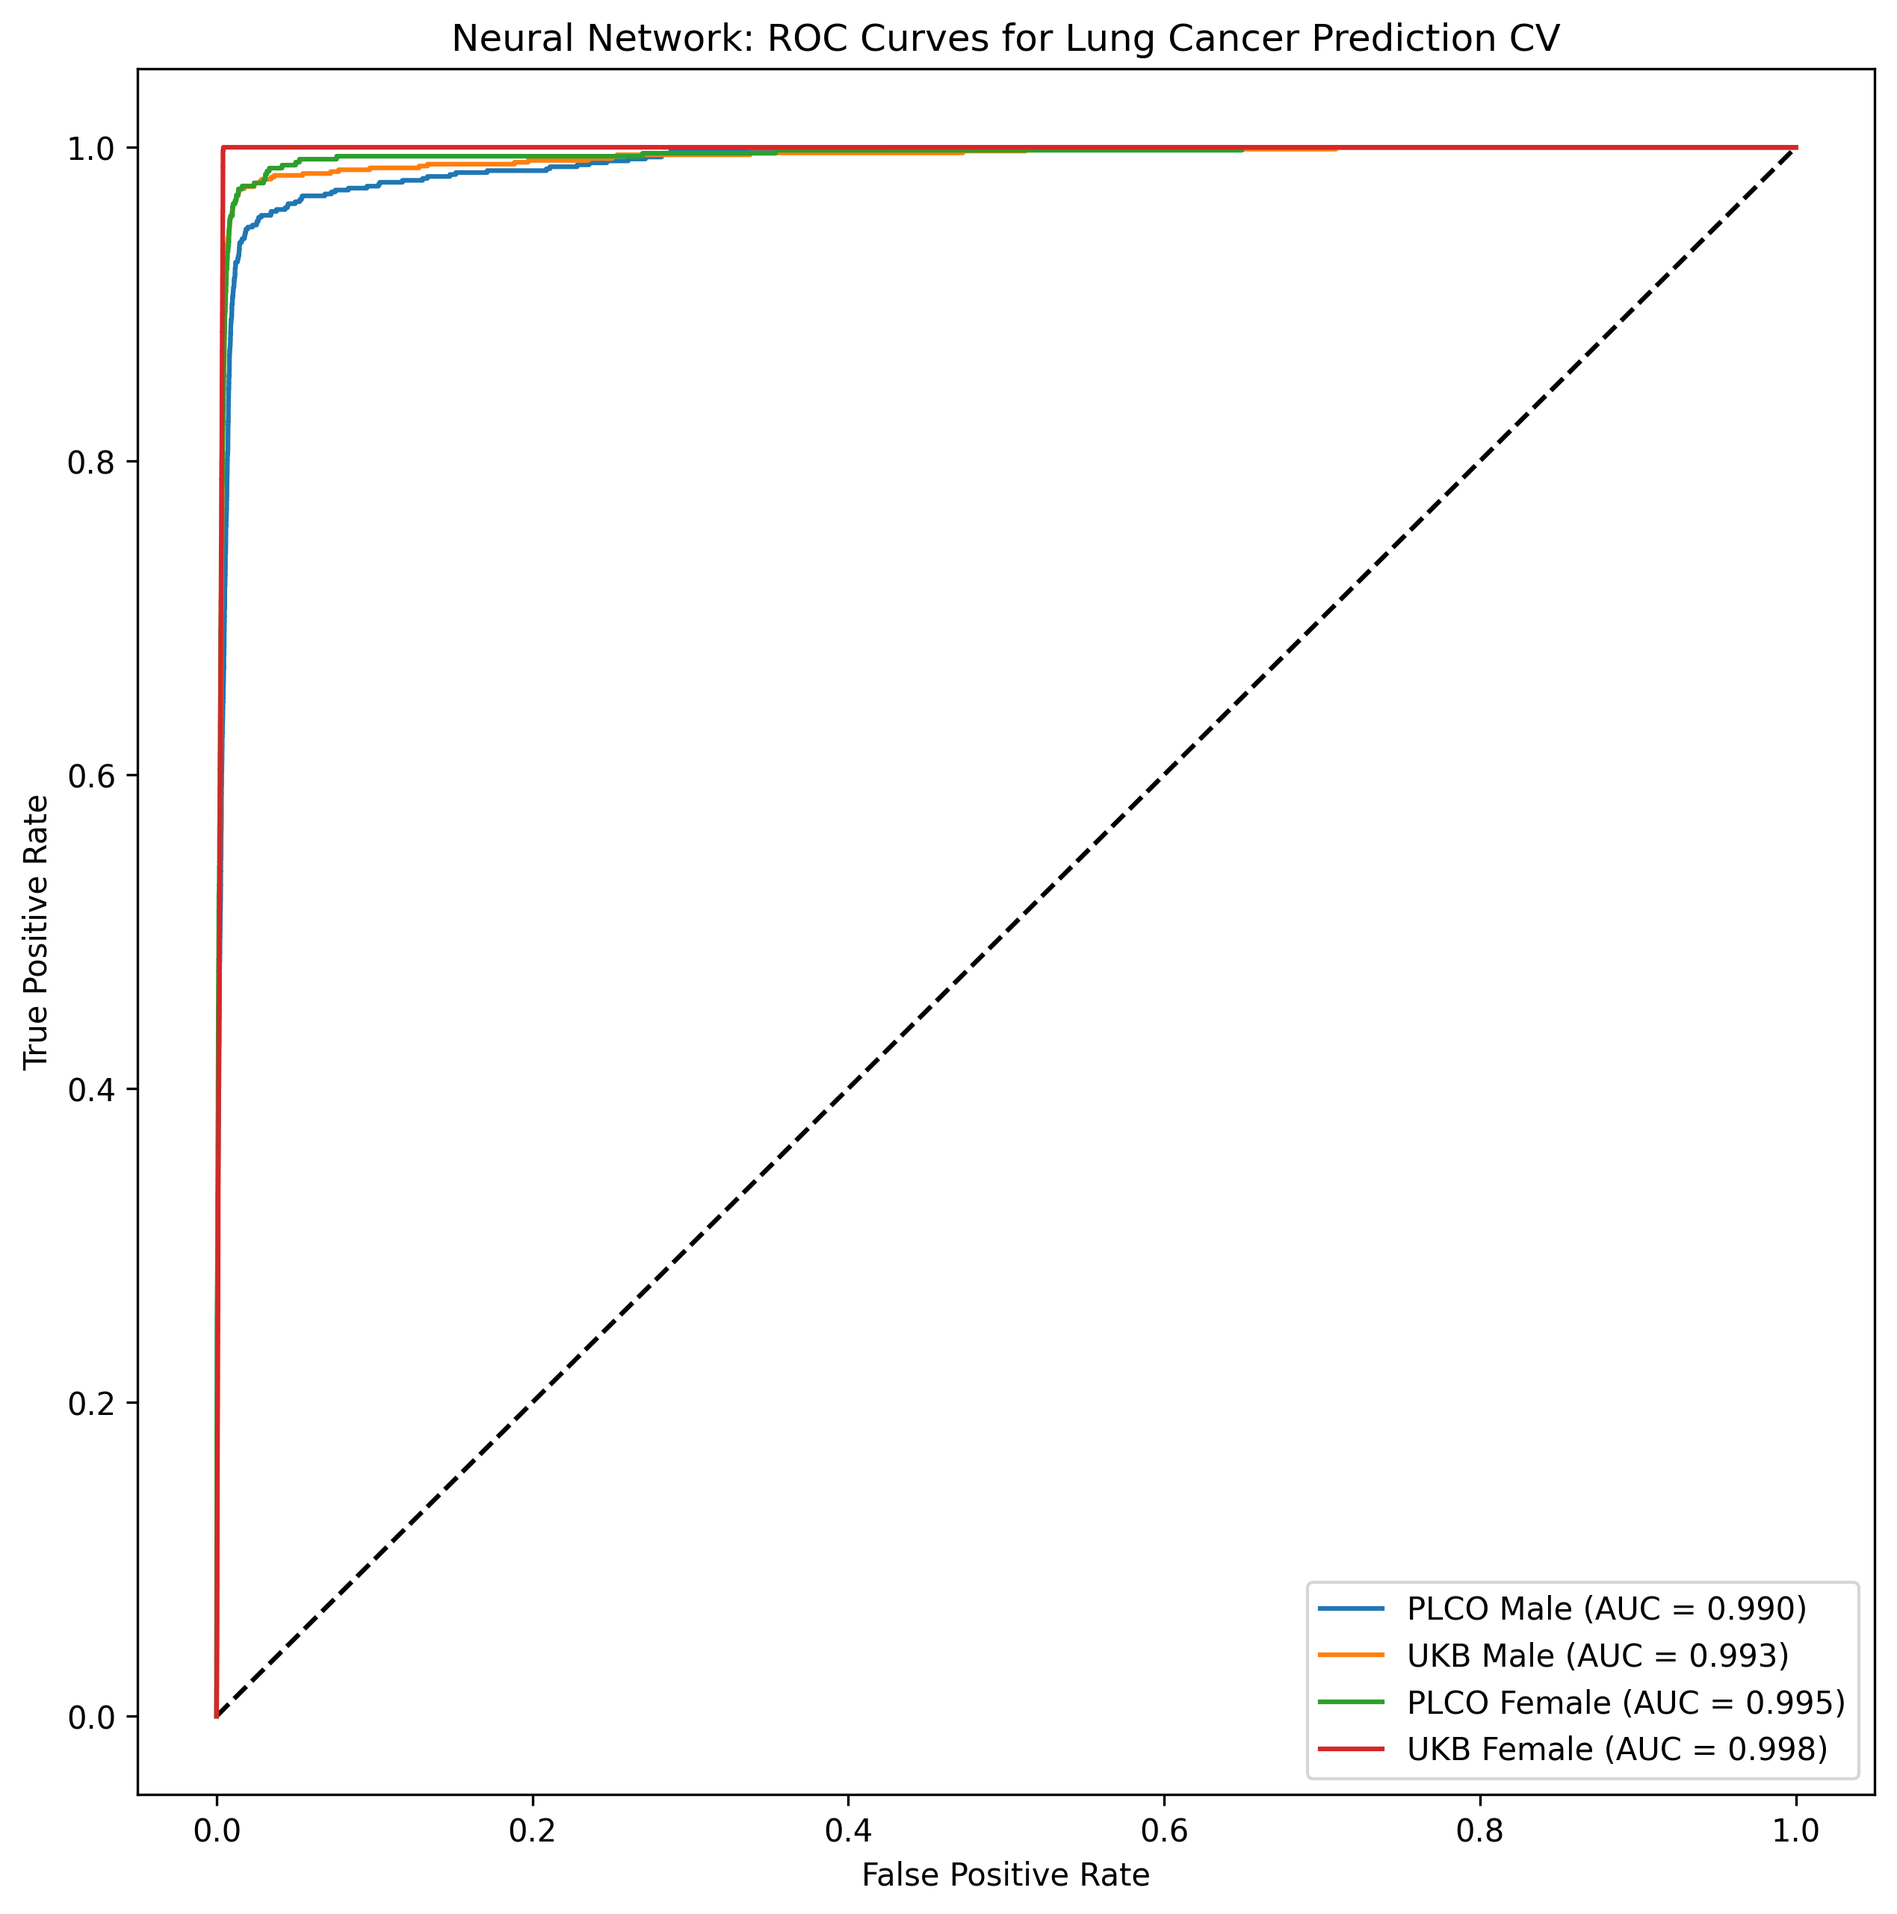
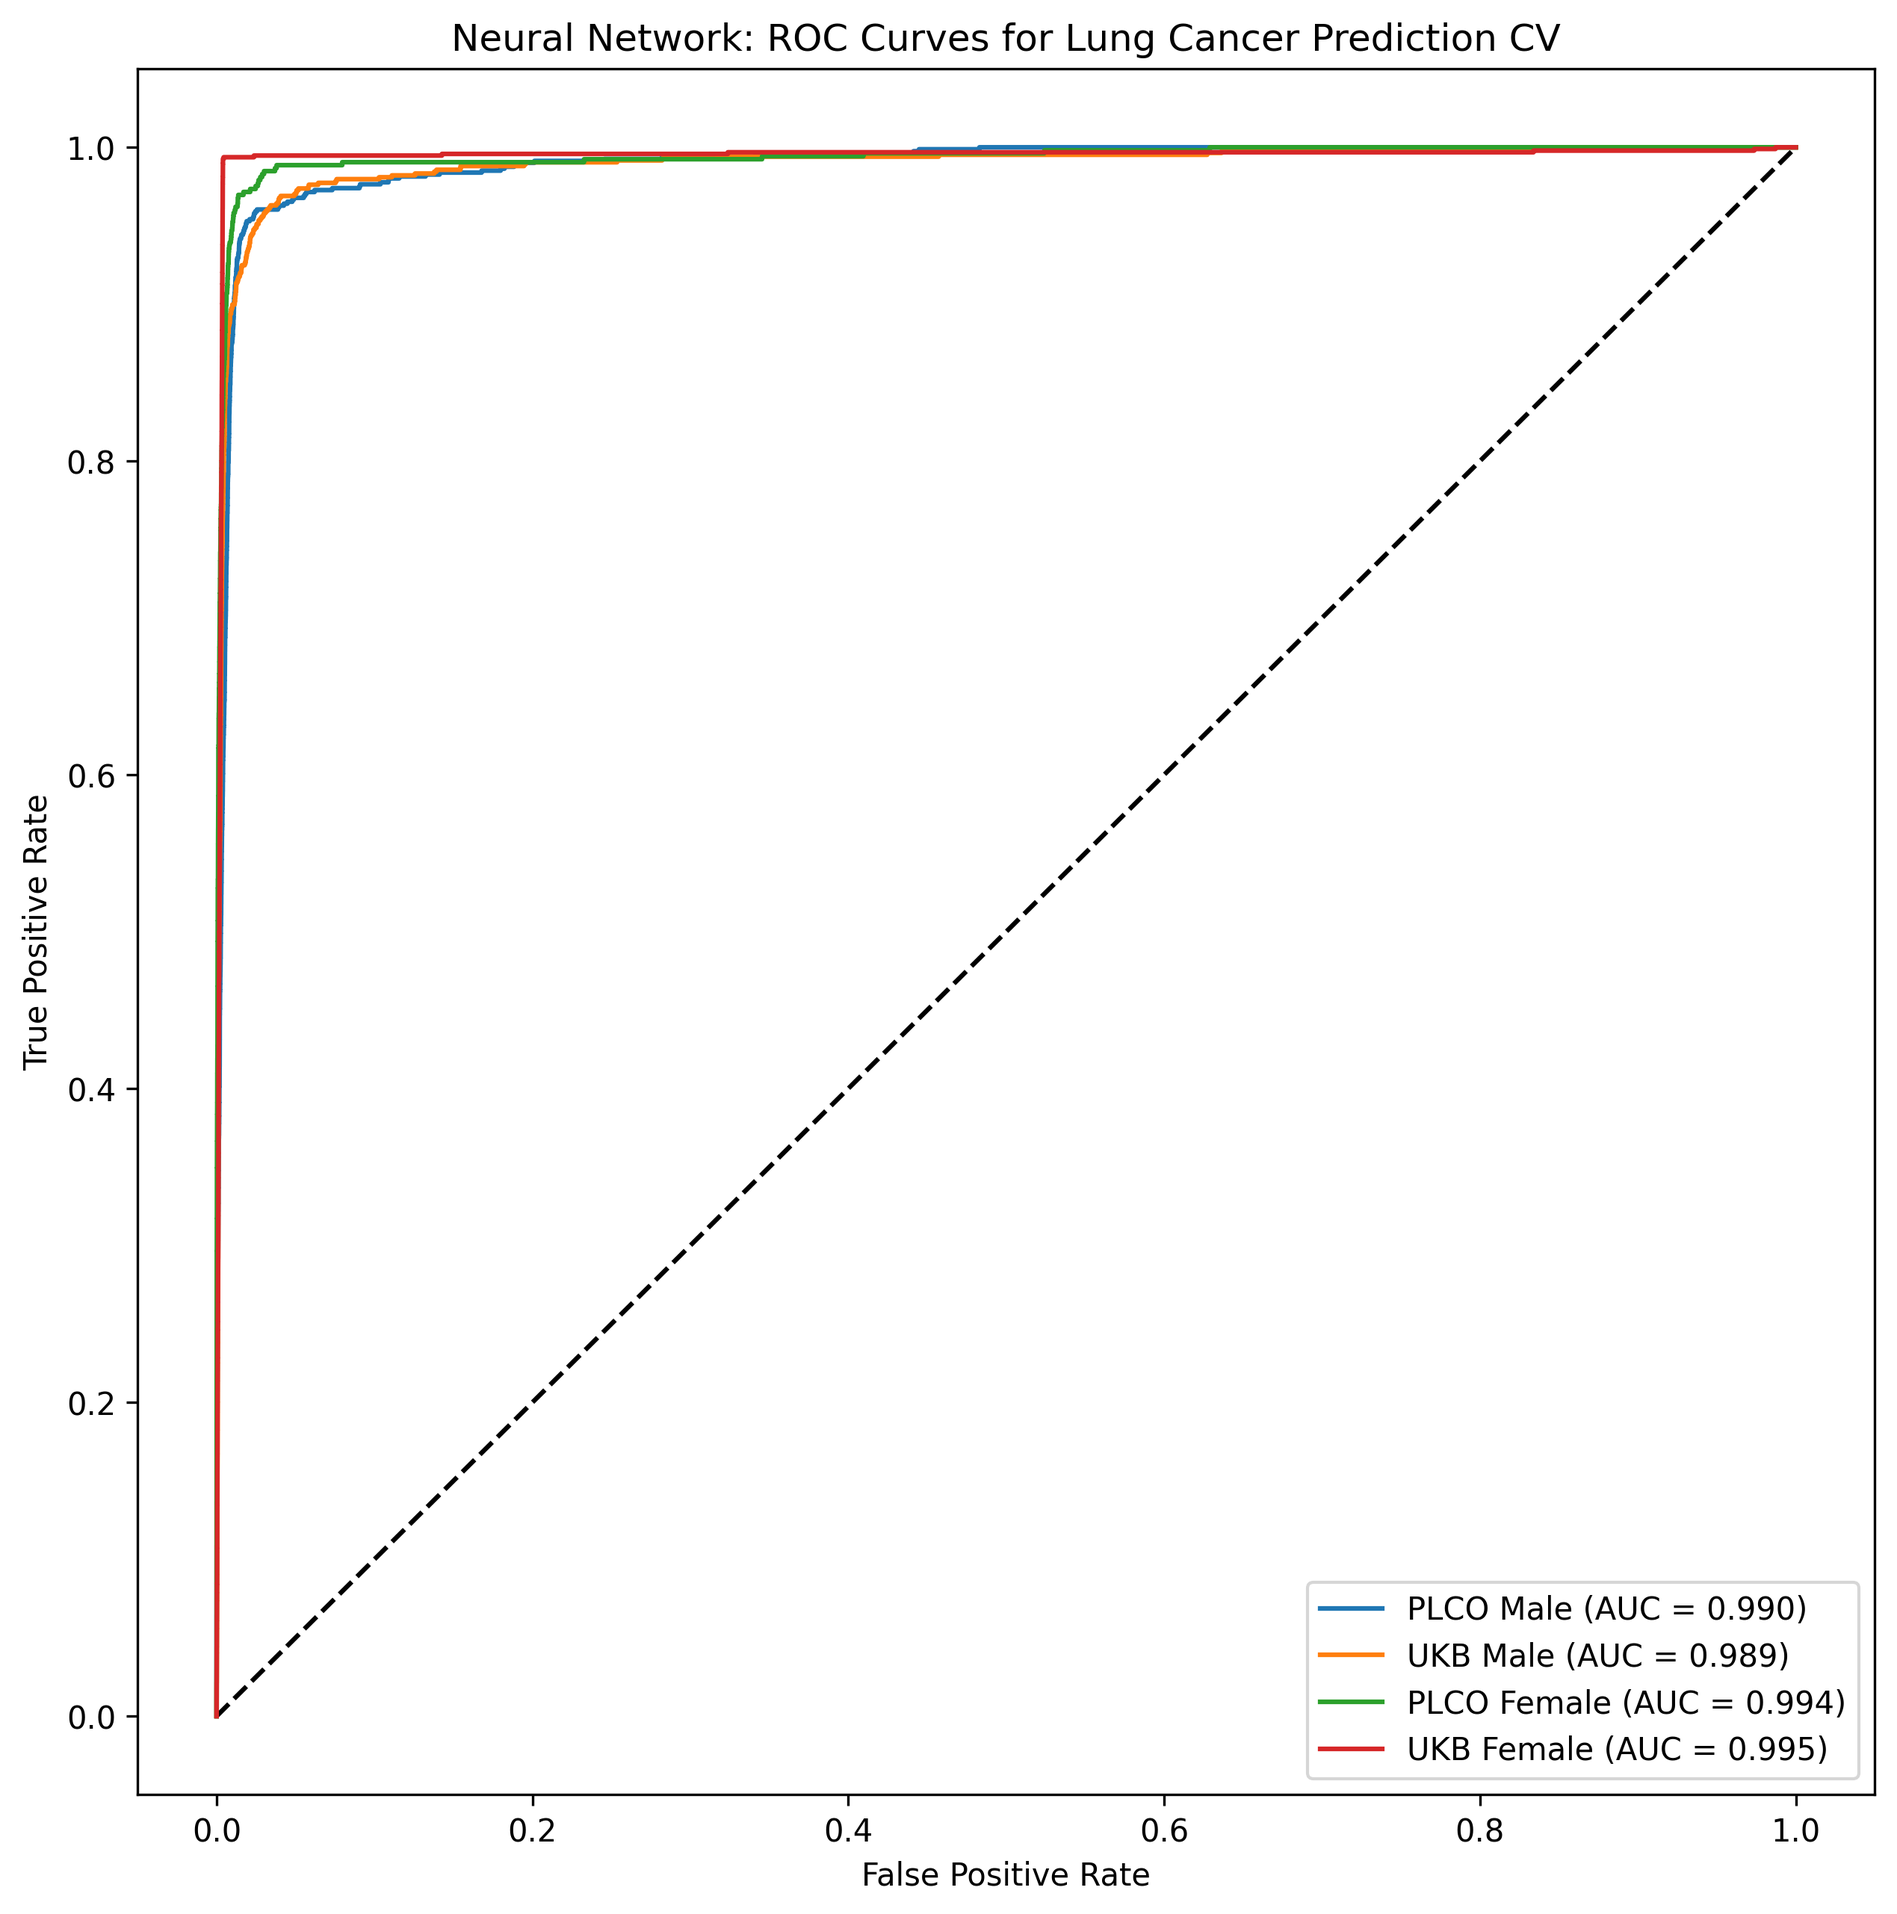
Editing files

Changed region(s): [[0.1245, 0.0625, 0.9334, 0.1249], [0.0933, 0.1249, 0.1245, 0.1874]]

diff --git a/ML Models/Models (Feature Rich)/feature_rich_cross_validation/AnnFRCrossVal.py b/ML Models/Models (Feature Rich)/feature_rich_cross_validation/AnnFRCrossVal.py
@@ -72,15 +72,17 @@ def cross_validate_and_train(plco_data_path, ukb_data_path):
     # Cross-validation
     kf = KFold(n_splits=10, shuffle=True, random_state=42)
     cv_metrics = []
-    
+    history_list = []  # New list to store the history of each fold
+
     for train_index, val_index in kf.split(X_plco_train):
         X_train, X_val = X_plco_train.iloc[train_index], X_plco_train.iloc[val_index]
         y_train, y_val = y_plco_train.iloc[train_index], y_plco_train.iloc[val_index]
         
         model = create_model(X_plco_train.shape[1])
-        model.fit(X_train, y_train, epochs=10, batch_size=1024, verbose=0)
+        history = model.fit(X_train, y_train, epochs=10, batch_size=1024, verbose=0, validation_data=(X_val, y_val))
         y_pred_val = model.predict(X_val)
         cv_metrics.append(calculate_metrics(y_val, y_pred_val))
+        history_list.append(history)
     
     cv_metrics = np.array(cv_metrics)
     cv_means = np.mean(cv_metrics, axis=0)
@@ -88,7 +90,7 @@ def cross_validate_and_train(plco_data_path, ukb_data_path):
     
     # Train on the entire PLCO dataset
     model = create_model(X_plco_train.shape[1])
-    model.fit(X_plco_train, y_plco_train, epochs=10, batch_size=1024, verbose=2)
+    history = model.fit(X_plco_train, y_plco_train, epochs=10, batch_size=1024, verbose=2, validation_split=0.1)
 
     # Evaluate on PLCO training set
     model.evaluate(X_plco_train, y_plco_train, verbose=2, batch_size=1024)
@@ -112,7 +114,7 @@ def cross_validate_and_train(plco_data_path, ukb_data_path):
     auc_ukb = auc(fpr_ukb, tpr_ukb)
     ukb_metrics = calculate_metrics(y_ukb, y_pred_ukb)
     
-    return (fpr_plco, tpr_plco, auc_plco), (fpr_ukb, tpr_ukb, auc_ukb), cv_means, cv_stds, plco_train_metrics, ukb_metrics
+    return (fpr_plco, tpr_plco, auc_plco), (fpr_ukb, tpr_ukb, auc_ukb), cv_means, cv_stds, plco_train_metrics, ukb_metrics, history_list, history  # Return history
 
 # Paths to male and female datasets
 male_plco_path = 'Input/PLCO_male_Lung_Data_MAIN_imputed.csv'
@@ -121,10 +123,32 @@ female_plco_path = 'Input/PLCO_female_Lung_Data_MAIN_imputed.csv'
 female_ukb_path = 'Input/UKB_female_Lung_Imputed_MAIN.csv'
 
 # Perform cross-validation and training for male data
-(male_fpr_plco, male_tpr_plco, male_auc_plco), (male_fpr_ukb, male_tpr_ukb, male_auc_ukb), male_cv_means, male_cv_stds, male_plco_train_metrics, male_ukb_metrics = cross_validate_and_train(male_plco_path, male_ukb_path)
+(male_fpr_plco, male_tpr_plco, male_auc_plco), (male_fpr_ukb, male_tpr_ukb, male_auc_ukb), male_cv_means, male_cv_stds, male_plco_train_metrics, male_ukb_metrics, male_history_list, male_history = cross_validate_and_train(male_plco_path, male_ukb_path)
 
 # Perform cross-validation and training for female data
-(female_fpr_plco, female_tpr_plco, female_auc_plco), (female_fpr_ukb, female_tpr_ukb, female_auc_ukb), female_cv_means, female_cv_stds, female_plco_train_metrics, female_ukb_metrics = cross_validate_and_train(female_plco_path, female_ukb_path)
+(female_fpr_plco, female_tpr_plco, female_auc_plco), (female_fpr_ukb, female_tpr_pl_ukb, female_auc_ukb), female_cv_means, female_cv_stds, female_plco_train_metrics, female_ukb_metrics, female_history_list, female_history = cross_validate_and_train(female_plco_path, female_ukb_path)
+
+# Plot the loss curves for male data
+plt.figure(figsize=(10, 5))
+for history in male_history_list:  # Plot loss for each fold
+    plt.plot(history.history['loss'], 'b-', alpha=0.3)
+    plt.plot(history.history['val_loss'], 'r-', alpha=0.3)
+plt.title('ANN Feature Rich: Male Data Loss Curves')
+plt.xlabel('Epochs')
+plt.ylabel('Loss')
+plt.legend(['Training Loss', 'Validation Loss'])
+plt.show()
+
+# Plot the loss curves for female data
+plt.figure(figsize=(10, 5))
+for history in female_history_list:  # Plot loss for each fold
+    plt.plot(history.history['loss'], 'b-', alpha=0.3)
+    plt.plot(history.history['val_loss'], 'r-', alpha=0.3)
+plt.title('ANN Feature Rich: Female Data Loss Curves')
+plt.xlabel('Epochs')
+plt.ylabel('Loss')
+plt.legend(['Training Loss', 'Validation Loss'])
+plt.show()
 
 # Print cross-validation results for male data
 print("\nMale Cross-Validation Metrics (Mean ± Std):")
@@ -198,7 +222,7 @@ plt.plot([0, 1], [0, 1], 'k--')  # Baseline
 plt.plot(male_fpr_plco, male_tpr_plco, label=f'PLCO Male (AUC = {male_auc_plco:.3f})')
 plt.plot(male_fpr_ukb, male_tpr_ukb, label=f'UKB Male (AUC = {male_auc_ukb:.3f})')
 plt.plot(female_fpr_plco, female_tpr_plco, label=f'PLCO Female (AUC = {female_auc_plco:.3f})')
-plt.plot(female_fpr_ukb, female_tpr_ukb, label=f'UKB Female (AUC = {female_auc_ukb:.3f})')
+plt.plot(female_fpr_ukb, female_tpr_pl_ukb, label=f'UKB Female (AUC = {female_auc_ukb:.3f})')
 plt.xlabel('False Positive Rate')
 plt.ylabel('True Positive Rate')
 plt.title('Neural Network: ROC Curves for Lung Cancer Prediction CV')

diff --git a/ML Models/Models (Feature Streamlined)/Models (Feature Streamlined CV)/RandomForestFeatureStreamCV.py b/ML Models/Models (Feature Streamlined)/Models (Feature Streamlined CV)/RandomForestFeatureStreamCV.py
@@ -93,11 +93,11 @@ def cross_validate_and_train(plco_data_path, ukb_data_path, nhis_data_path):
 # Paths to male and female datasets
 male_ukb_path = 'Input/UKB_male_Lung_Imputed_MAIN.csv'
 male_plco_path = 'Input/PLCO_male_Lung_Data_MAIN_imputed.csv'
-male_nhis_path = 'Input/male_filtered_70_NHIS_imputed.csv'
+male_nhis_path = 'Input/male_filtered_chosen_NHIS_imputed.csv'
 
 female_ukb_path = 'Input/UKB_female_Lung_Imputed_MAIN.csv'
 female_plco_path = 'Input/PLCO_female_Lung_Data_MAIN_imputed.csv'
-female_nhis_path = 'Input/female_filtered_70_NHIS_imputed.csv'
+female_nhis_path = 'Input/female_filtered_chosen_NHIS_imputed.csv'
 
 # Perform cross-validation and training for male data
 (male_fpr_plco, male_tpr_plco, male_auc_plco), (male_fpr_ukb, male_tpr_ukb, male_auc_ukb), (male_fpr_nhis, male_tpr_nhis, male_auc_nhis), male_cv_means, male_cv_stds, male_plco_train_metrics, male_ukb_metrics, male_nhis_metrics = cross_validate_and_train(male_plco_path, male_ukb_path, male_nhis_path)
@@ -204,7 +204,7 @@ plt.plot(female_fpr_ukb, female_tpr_ukb, label=f'UKB Female (AUC = {female_auc_u
 plt.plot(female_fpr_nhis, female_tpr_nhis, label=f'NHIS Female (AUC = {female_auc_nhis:.3f})')
 plt.xlabel('False Positive Rate')
 plt.ylabel('True Positive Rate')
-plt.title('Random Forest: ROC Curves for Lung Cancer Prediction (70%) CV')
+plt.title('Random Forest: ROC Curves for Lung Cancer Prediction (chosen) CV')
 plt.legend(loc='lower right')
-plt.savefig('/Users/teresanguyen/Lung-Statistical-Biopsy/ML Models/Models (Feature Streamlined)/Models (Feature Streamlined CV)/feature streamlined cv photos/RandomForestFStreamlinedCv70.png', dpi=300, bbox_inches='tight')
+plt.savefig('/Users/teresanguyen/Lung-Statistical-Biopsy/ML Models/Models (Feature Streamlined)/Models (Feature Streamlined CV)/feature streamlined cv photos/RandomForestFStreamlinedCvChosen.png', dpi=300, bbox_inches='tight')
 plt.show()

diff --git a/ML Models/Models (Feature Streamlined)/Models (Feature Streamlined CV)/SVMFeatureStreamCV.py b/ML Models/Models (Feature Streamlined)/Models (Feature Streamlined CV)/SVMFeatureStreamCV.py
@@ -93,11 +93,11 @@ def cross_validate_and_train(plco_data_path, ukb_data_path, nhis_data_path):
 # Paths to male and female datasets
 male_ukb_path = 'Input/UKB_male_Lung_Imputed_MAIN.csv'
 male_plco_path = 'Input/PLCO_male_Lung_Data_MAIN_imputed.csv'
-male_nhis_path = 'Input/male_filtered_70_NHIS_imputed.csv'
+male_nhis_path = 'Input/male_filtered_chosen_NHIS_imputed.csv'
 
 female_ukb_path = 'Input/UKB_female_Lung_Imputed_MAIN.csv'
 female_plco_path = 'Input/PLCO_female_Lung_Data_MAIN_imputed.csv'
-female_nhis_path = 'Input/female_filtered_70_NHIS_imputed.csv'
+female_nhis_path = 'Input/female_filtered_chosen_NHIS_imputed.csv'
 
 # Perform cross-validation and training for male data
 (male_fpr_plco, male_tpr_plco, male_auc_plco), (male_fpr_ukb, male_tpr_ukb, male_auc_ukb), (male_fpr_nhis, male_tpr_nhis, male_auc_nhis), male_cv_means, male_cv_stds, male_plco_train_metrics, male_ukb_metrics, male_nhis_metrics = cross_validate_and_train(male_plco_path, male_ukb_path, male_nhis_path)
@@ -204,7 +204,7 @@ plt.plot(female_fpr_ukb, female_tpr_ukb, label=f'UKB Female (AUC = {female_auc_u
 plt.plot(female_fpr_nhis, female_tpr_nhis, label=f'NHIS Female (AUC = {female_auc_nhis:.3f})')
 plt.xlabel('False Positive Rate')
 plt.ylabel('True Positive Rate')
-plt.title('SVM: ROC Curves for Lung Cancer Prediction (70%) CV')
+plt.title('SVM: ROC Curves for Lung Cancer Prediction (chosen) CV')
 plt.legend(loc='lower right')
-plt.savefig('/Users/teresanguyen/Lung-Statistical-Biopsy/ML Models/Models (Feature Streamlined)/Models (Feature Streamlined CV)/feature streamlined cv photos/SVMFStreamlinedCv70.png', dpi=300, bbox_inches='tight')
+plt.savefig('/Users/teresanguyen/Lung-Statistical-Biopsy/ML Models/Models (Feature Streamlined)/Models (Feature Streamlined CV)/feature streamlined cv photos/SVMFStreamlinedCvChosen.png', dpi=300, bbox_inches='tight')
 plt.show()
